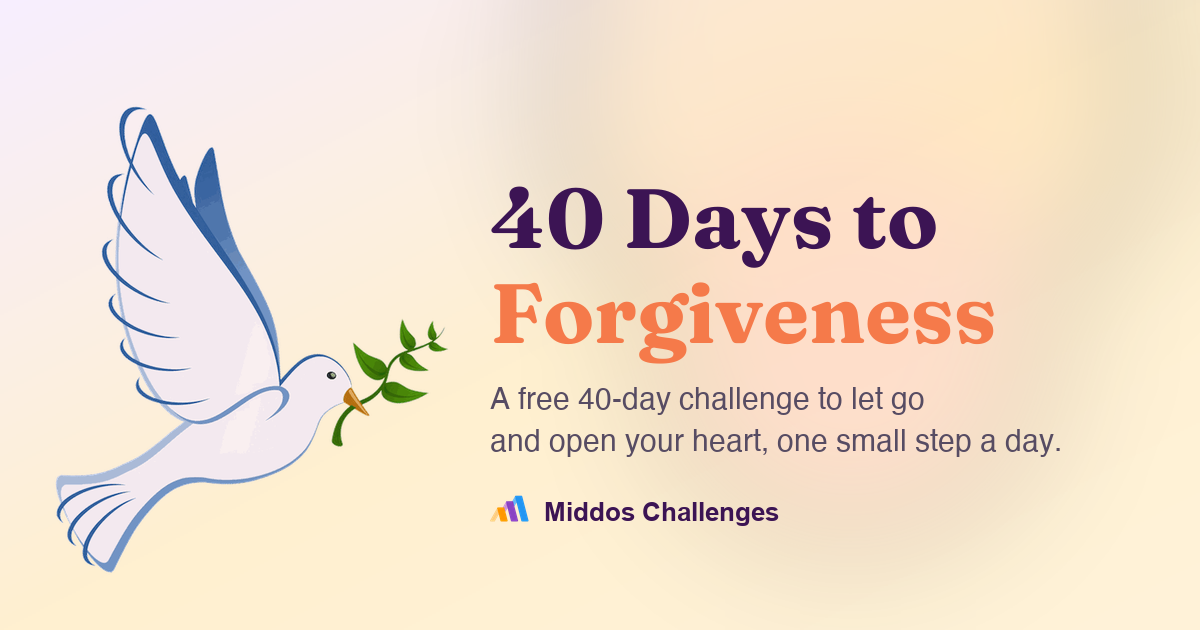
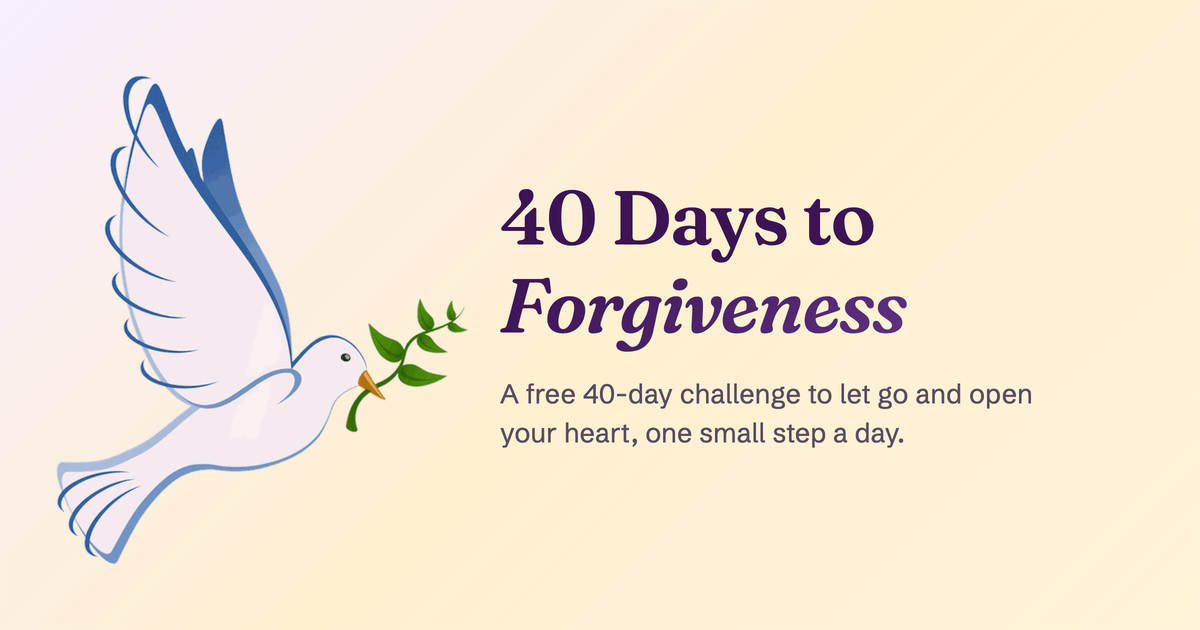
Rebuild OG image to match hero styling, obfuscate support email, add gitignore
- New og-image.png rendered from the actual site fonts/gradient (Fraunces,
  italic gradient on "Forgiveness" matching .hero h1 .accent exactly,
  Schibsted Grotesk subtitle instead of a generic sans-serif fallback,
  Middos Challenges logo/text removed).
- [email redacted] no longer appears as plain text/mailto in the
  page source (footer, contact fallback, join card) — built by JS at
  runtime so basic scraping bots can't harvest it.
- Contact form gets a honeypot field and the same instant-submit bot filter
  already used on the Mailchimp forms.
- Add .gitignore for .DS_Store.

diff --git a/script.js b/script.js
@@ -20,6 +20,16 @@ var CONFIG = {
     a.setAttribute("rel","noopener");
   });
 
+  // Build the support email link at runtime instead of leaving it as plain
+  // text/mailto in the page source, so basic HTML-scraping bots don't
+  // harvest it. Real visitors see/click it exactly as before.
+  document.querySelectorAll(".js-email").forEach(function(a){
+    var addr = "info" + "@" + "middoschallenges.com";
+    var subject = a.getAttribute("data-subject");
+    a.href = "mailto:" + addr + (subject ? "?subject=" + encodeURIComponent(subject) : "");
+    a.textContent = addr;
+  });
+
   // Year
   var y = document.getElementById("yr"); if(y) y.textContent = new Date().getFullYear();
 
@@ -238,6 +248,7 @@ var CONFIG = {
     var nameInput = document.getElementById("contactName");
     var emailInput = document.getElementById("contactEmail");
     var messageInput = document.getElementById("contactMessage");
+    var websiteInput = document.getElementById("contactWebsite");
     var errorEl = document.getElementById("contactError");
     var successEl = document.getElementById("contactSuccess");
     var CONTACT_ENDPOINT = "https://raffle.40forgive.com/api/contact";
@@ -245,6 +256,8 @@ var CONFIG = {
     form.addEventListener("submit", function(e){
       e.preventDefault();
       errorEl.hidden = true;
+      // Same instant-submit bot filter as the Mailchimp forms above.
+      if(Date.now() - pageLoadedAt < MIN_FILL_TIME_MS) return;
       var email = emailInput.value.trim();
       var message = messageInput.value.trim();
       if(!email || !message){
@@ -257,7 +270,7 @@ var CONFIG = {
       fetch(CONTACT_ENDPOINT, {
         method: "POST",
         headers: { "Content-Type": "application/json" },
-        body: JSON.stringify({ name: nameInput.value.trim(), email: email, message: message })
+        body: JSON.stringify({ name: nameInput.value.trim(), email: email, message: message, website: websiteInput.value })
       })
         .then(function(res){ return res.json().then(function(d){ return { status: res.status, data: d }; }); })
         .then(function(r){

diff --git a/index.html b/index.html
@@ -372,7 +372,7 @@ document.addEventListener('DOMContentLoaded', function () {
           <svg viewBox="0 0 24 24" fill="none" stroke="currentColor" stroke-width="3" stroke-linecap="round" stroke-linejoin="round"><path d="M20 6 9 17l-5-5"/></svg>
           <span>You’re in! Check your inbox to confirm.</span>
         </div>
-        <p class="jnote">Or email <b>“Forgive”</b> to <a href="mailto:[email redacted]?subject=Forgive">[email redacted]</a></p>
+        <p class="jnote">Or email <b>“Forgive”</b> to <a class="js-email" data-subject="Forgive"></a></p>
       </div>
 
       <!-- WHATSAPP card -->
@@ -586,6 +586,7 @@ document.addEventListener('DOMContentLoaded', function () {
       <input type="text" id="contactName" name="name" placeholder="Name (optional)" aria-label="Name">
       <input type="email" id="contactEmail" name="email" placeholder="Email address" aria-label="Email address" required>
       <textarea id="contactMessage" name="message" rows="5" maxlength="5000" placeholder="Your message…" aria-label="Message" required></textarea>
+      <div class="visually-hidden-block" aria-hidden="true"><input type="text" id="contactWebsite" name="website" tabindex="-1" autocomplete="off"></div>
       <button class="btn btn-orange" type="submit"><span class="btxt">Send message</span></button>
     </form>
     <p class="contact-error" id="contactError" hidden></p>
@@ -593,7 +594,7 @@ document.addEventListener('DOMContentLoaded', function () {
       <svg viewBox="0 0 24 24" fill="none" stroke="currentColor" stroke-width="3" stroke-linecap="round" stroke-linejoin="round"><path d="M20 6 9 17l-5-5"/></svg>
       <span>Thanks — we’ll be in touch soon!</span>
     </div>
-    <p class="contact-fallback">Prefer email? Reach us directly at <a href="mailto:[email redacted]">[email redacted]</a>.</p>
+    <p class="contact-fallback">Prefer email? Reach us directly at <a class="js-email"></a>.</p>
   </div>
 </section>
 
@@ -604,7 +605,7 @@ document.addEventListener('DOMContentLoaded', function () {
       <img class="brand-logo" src="images/logo - all white.png" alt="Middos Challenges" width="936" height="216">
     </a>
     <p style="margin-top:18px">40 Days to Forgiveness is a program of Middos Challenges</p>
-    <p style="margin-top:6px">© Middos Challenges <span id="yr"></span>. All Rights Reserved. · <a class="foot-email" href="mailto:[email redacted]">[email redacted]</a></p>
+    <p style="margin-top:6px">© Middos Challenges <span id="yr"></span>. All Rights Reserved. · <a class="foot-email js-email"></a></p>
   </div>
 </footer>
 